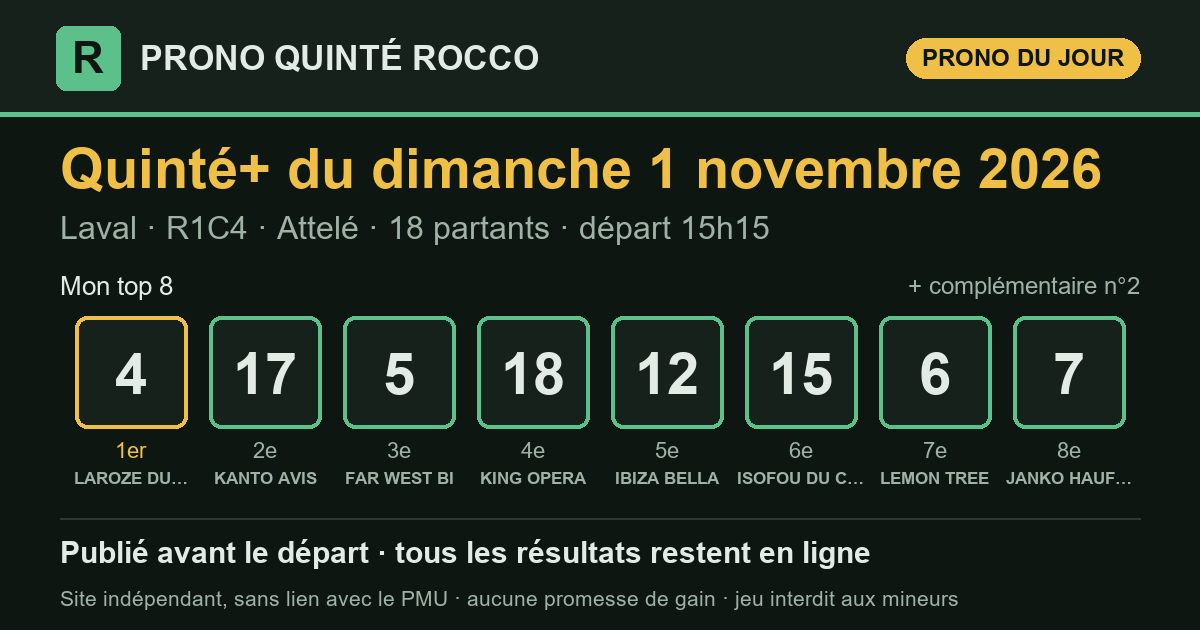
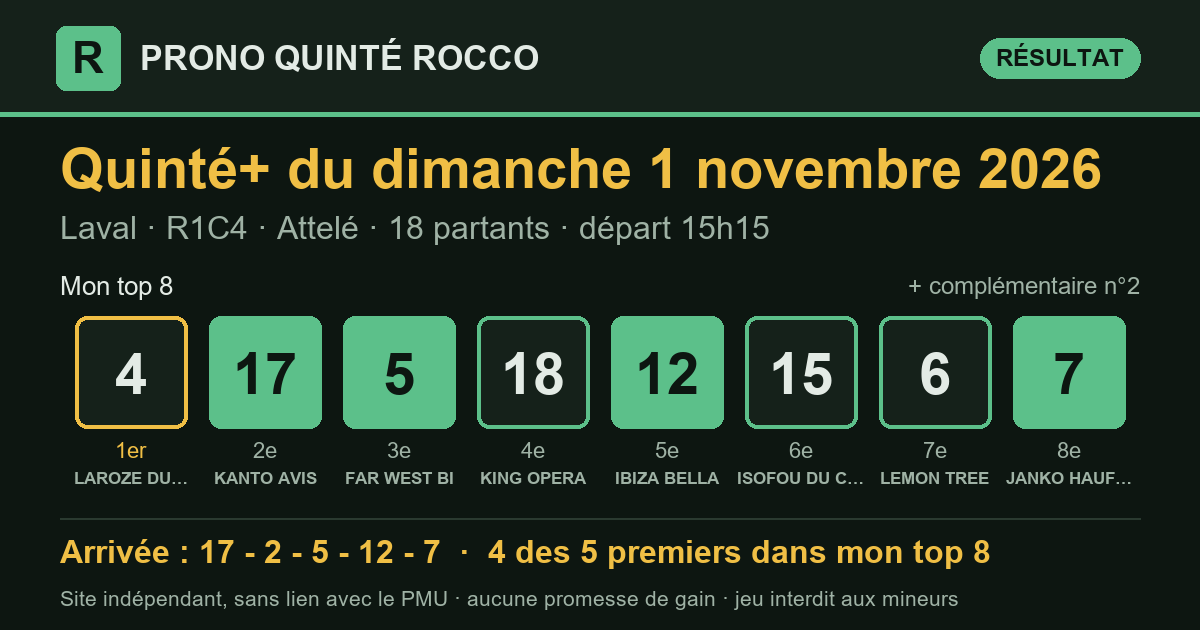
Prono Quinté+ 2026-11-01 Laval R1C4 — publié le 02/11/2026 08:54 (heure de Paris)

diff --git a/partants.html b/partants.html
@@ -3,7 +3,7 @@
 <head>
 <meta charset="utf-8">
 <meta name="viewport" content="width=device-width, initial-scale=1, viewport-fit=cover">
-<title>Partants du Quinté+ du dimanche 1 novembre 2026 — Prono Quinté Rocco</title>
+<title>Partants du Quinté+ du lundi 2 novembre 2026 — Prono Quinté Rocco</title>
 <meta name="description" content="Les partants du prochain Quinté+ (programme officiel du PMU), avec le rang de chaque cheval dans mon prono et les liens vers les pronostics de la presse.">
 <link rel="canonical" href="https://prono-quinte-rocco.fr/partants.html">
 <link rel="stylesheet" href="style.css?v=88a1c822">
@@ -13,7 +13,7 @@
 <meta property="og:site_name" content="Prono Quinté Rocco">
 <meta property="og:locale" content="fr_FR">
 <meta property="og:type" content="website">
-<meta property="og:title" content="Partants du Quinté+ du dimanche 1 novembre 2026 — Prono Quinté Rocco">
+<meta property="og:title" content="Partants du Quinté+ du lundi 2 novembre 2026 — Prono Quinté Rocco">
 <meta property="og:description" content="Les partants du prochain Quinté+ (programme officiel du PMU), avec le rang de chaque cheval dans mon prono et les liens vers les pronostics de la presse.">
 <meta property="og:url" content="https://prono-quinte-rocco.fr/partants.html">
 <meta name="twitter:card" content="summary">
@@ -29,110 +29,100 @@
   <p class="surtitre">Programme officiel du PMU</p>
   <h1>Les partants du prochain Quinté+</h1>
   <div class="fiche-course">
-    <p class="fiche-date">Dimanche 1 novembre 2026</p>
-    <div class="fiche-rc"><span class="pastille" title="Réunion 1">R1</span><span class="pastille" title="Course 4">C4</span><span class="fiche-nom">Grand Prix de la Ville de Laval</span></div>
-    <p class="meta">Laval · Trot_attele · 2 850 m · 18 partants</p>
-    <p class="fiche-depart">Départ <b>15:15</b> <span>heure de Paris</span></p>
+    <p class="fiche-date">Lundi 2 novembre 2026</p>
+    <div class="fiche-rc"><span class="pastille" title="Réunion 1">R1</span><span class="pastille" title="Course 3">C3</span><span class="fiche-nom">Prix de la Seine et Marne</span></div>
+    <p class="meta">Fontainebleau · Plat · 1 600 m · 16 partants</p>
+    <p class="fiche-depart">Départ <b>13:55</b> <span>heure de Paris</span></p>
   </div>
   <p class="surtitre">Les pronostics ailleurs sur le web</p>
-  <div class="liens"><a class="lien-ext" href="https://www.turfoo.fr/programmes-courses/261101/reunion1-laval/course4-grand-prix-de-la-ville-de-laval/pronostics-presse/" rel="noopener" target="_blank"><b>Les pronostics de la presse →</b><span>sur Turfoo (site extérieur)</span></a><a class="lien-ext" href="https://www.geny.com/programme/2026-11-01" rel="noopener" target="_blank"><b>Partants et pronostics →</b><span>programme du jour sur Geny (site extérieur)</span></a></div>
+  <div class="liens"><a class="lien-ext" href="https://www.turfoo.fr/programmes-courses/261102/reunion1-fontainebleau/course3-prix-de-la-seine-et-marne/pronostics-presse/" rel="noopener" target="_blank"><b>Les pronostics de la presse →</b><span>sur Turfoo (site extérieur)</span></a><a class="lien-ext" href="https://www.geny.com/programme/2026-11-02" rel="noopener" target="_blank"><b>Partants et pronostics →</b><span>programme du jour sur Geny (site extérieur)</span></a></div>
   <div class="liste-boite"><table class="liste-partants">
     <thead><tr><th>N°</th><th>Cheval</th><th class="cote"><span class="long">Cote du matin</span><span class="court">Cote</span></th>
     <th class="ia"><span class="long">Mon prono</span><span class="court">Prono</span></th></tr></thead>
     <tbody><tr>
   <td><span class="tapis petit">1</span></td>
-  <td><span class="cheval">JERICHO DU RIB</span><span class="sous">Mme C. HALLAIS-DERSOIR · JOEL HALLAIS</span></td>
-  <td class="cote num">44,0</td>
+  <td><span class="cheval">PURPLE LION</span><span class="sous">H.BOUTIN · FH.GRAFFARD (S)</span></td>
+  <td class="cote num">—</td>
   <td class="ia">—</td>
 </tr><tr>
   <td><span class="tapis petit">2</span></td>
-  <td><span class="cheval">JIBI DU FRUITIER</span><span class="sous">M. MOTTIER · CH.M. BRUNEAU</span></td>
-  <td class="cote num">14,0</td>
-  <td class="ia"><span class="etat place">compl.</span></td>
+  <td><span class="cheval">DOUBLE UP</span><span class="sous">A.MADAMET · S.WATTEL (S)</span></td>
+  <td class="cote num">—</td>
+  <td class="ia">—</td>
 </tr><tr>
   <td><span class="tapis petit">3</span></td>
-  <td><span class="cheval">JERZINHO SPORT</span><span class="sous">F. BOUDET · Mme CL. DESMONTILS</span></td>
-  <td class="cote num">61,0</td>
+  <td><span class="cheval">BAYAMOON</span><span class="sous">F.VERON · J.REYNIER (S)</span></td>
+  <td class="cote num">—</td>
   <td class="ia">—</td>
 </tr><tr>
   <td><span class="tapis petit">4</span></td>
-  <td><span class="cheval">LAROZE DU GERS</span><span class="sous">M. ABRIVARD · M. ABRIVARD</span></td>
-  <td class="cote num">3,2</td>
-  <td class="ia"><span class="etat place">1<sup>er</sup></span></td>
+  <td><span class="cheval">FELIX AUX ORMES</span><span class="sous">H.JOURNIAC · Y.BARBEROT (S)</span></td>
+  <td class="cote num">—</td>
+  <td class="ia">—</td>
 </tr><tr>
   <td><span class="tapis petit">5</span></td>
-  <td><span class="cheval">FAR WEST BI</span><span class="sous">E. RAFFIN · H.E. BONDO</span></td>
-  <td class="cote num">6,3</td>
-  <td class="ia"><span class="etat place">3<sup>e</sup></span></td>
+  <td><span class="cheval">JUSEARTH FAL</span><span class="sous">C.LECOEUVRE · M.PITART</span></td>
+  <td class="cote num">—</td>
+  <td class="ia">—</td>
 </tr><tr>
   <td><span class="tapis petit">6</span></td>
-  <td><span class="cheval">LEMON TREE</span><span class="sous">A. ABRIVARD · W. BIGEON</span></td>
-  <td class="cote num">14,0</td>
-  <td class="ia"><span class="etat place">7<sup>e</sup></span></td>
+  <td><span class="cheval">MR FLEURANT</span><span class="sous">A.HAMELIN · A.WATRIGANT (S)</span></td>
+  <td class="cote num">—</td>
+  <td class="ia">—</td>
 </tr><tr>
   <td><span class="tapis petit">7</span></td>
-  <td><span class="cheval">JANKO HAUFOR</span><span class="sous">D. BONNE · CH. BIGEON</span></td>
-  <td class="cote num">12,0</td>
-  <td class="ia"><span class="etat place">8<sup>e</sup></span></td>
+  <td><span class="cheval">NOVA HOPE</span><span class="sous">A.LEMAITRE · F.FORESI</span></td>
+  <td class="cote num">—</td>
+  <td class="ia">—</td>
 </tr><tr>
   <td><span class="tapis petit">8</span></td>
-  <td><span class="cheval">JASMINE DE VAU</span><span class="sous">CH. DREUX · Ch. DREUX</span></td>
-  <td class="cote num">72,0</td>
+  <td><span class="cheval">ZELMAN</span><span class="sous">M.GRANDIN · AS&amp;D.ALLARD (S)</span></td>
+  <td class="cote num">—</td>
   <td class="ia">—</td>
 </tr><tr>
   <td><span class="tapis petit">9</span></td>
-  <td><span class="cheval">INDY DARK</span><span class="sous">P.EDOUARD MARY · J.F. MARY</span></td>
-  <td class="cote num">81,0</td>
+  <td><span class="cheval">GOOD BYE MANU</span><span class="sous">A.CRASTUS · BUTEL &amp; BEAUNEZ (S)</span></td>
+  <td class="cote num">—</td>
   <td class="ia">—</td>
 </tr><tr>
   <td><span class="tapis petit">10</span></td>
-  <td><span class="cheval">ILLUSION JIPAD</span><span class="sous">P. LELIEVRE · P. LELIEVRE</span></td>
-  <td class="cote num">122,0</td>
+  <td><span class="cheval">VICTORY FOLIE</span><span class="sous">M.GUYON · N.CAULLERY</span></td>
+  <td class="cote num">—</td>
   <td class="ia">—</td>
 </tr><tr>
   <td><span class="tapis petit">11</span></td>
-  <td><span class="cheval">L&#x27;ECRIN D&#x27;OR</span><span class="sous">J.PH. RAFFEGEAU · L.CL. ABRIVARD</span></td>
-  <td class="cote num">95,0</td>
+  <td><span class="cheval">GALORD</span><span class="sous">E.HARDOUIN · C.FEY (S)</span></td>
+  <td class="cote num">—</td>
   <td class="ia">—</td>
 </tr><tr>
   <td><span class="tapis petit">12</span></td>
-  <td><span class="cheval">IBIZA BELLA</span><span class="sous">A. WIELS · J.P. MARMION</span></td>
-  <td class="cote num">28,0</td>
-  <td class="ia"><span class="etat place">5<sup>e</sup></span></td>
+  <td><span class="cheval">HENDRIXX</span><span class="sous">F.VALLE SKAR · C&amp;Y.LERNER (S)</span></td>
+  <td class="cote num">—</td>
+  <td class="ia">—</td>
 </tr><tr>
   <td><span class="tapis petit">13</span></td>
-  <td><span class="cheval">IDYLLE EXPRESS</span><span class="sous">Mlle CL. LELIEVRE · EMILIEN RAULLINE</span></td>
-  <td class="cote num">64,0</td>
+  <td><span class="cheval">ARTISTIC MAN</span><span class="sous">T.TRULLIER · F.JOLIVET (S)</span></td>
+  <td class="cote num">—</td>
   <td class="ia">—</td>
 </tr><tr>
   <td><span class="tapis petit">14</span></td>
-  <td><span class="cheval">INSHORE</span><span class="sous">LEO ABRIVARD · LEO ABRIVARD</span></td>
-  <td class="cote num">124,0</td>
+  <td><span class="cheval">TERREDEGUERRE</span><span class="sous">J.CLAUDIC · F.FORESI</span></td>
+  <td class="cote num">—</td>
   <td class="ia">—</td>
 </tr><tr>
   <td><span class="tapis petit">15</span></td>
-  <td><span class="cheval">ISOFOU DU CHENE</span><span class="sous">P.PH. PLOQUIN · J. LE MER</span></td>
-  <td class="cote num">23,0</td>
-  <td class="ia"><span class="etat place">6<sup>e</sup></span></td>
-</tr><tr>
-  <td><span class="tapis petit">16</span></td>
-  <td><span class="cheval">J&#x27;AIME LE FOOT</span><span class="sous">A. LHERETE · Antoine LHERETE</span></td>
-  <td class="cote num">106,0</td>
+  <td><span class="cheval">KIANDA</span><span class="sous">M.VELON · M.DELZANGLES</span></td>
+  <td class="cote num">—</td>
   <td class="ia">—</td>
 </tr><tr>
-  <td><span class="tapis petit">17</span></td>
-  <td><span class="cheval">KANTO AVIS</span><span class="sous">B. ROCHARD · M. SASSIER</span></td>
-  <td class="cote num">5,2</td>
-  <td class="ia"><span class="etat place">2<sup>e</sup></span></td>
-</tr><tr>
-  <td><span class="tapis petit">18</span></td>
-  <td><span class="cheval">KING OPERA</span><span class="sous">W. BIGEON · W. BIGEON</span></td>
-  <td class="cote num">10,0</td>
-  <td class="ia"><span class="etat place">4<sup>e</sup></span></td>
+  <td><span class="tapis petit">16</span></td>
+  <td><span class="cheval">BABY HARTWOOD</span><span class="sous">D.SANTIAGO · MME V.DISSAUX</span></td>
+  <td class="cote num">—</td>
+  <td class="ia">—</td>
 </tr></tbody>
   </table></div>
-  <p class="meta">La colonne « Mon prono » donne le rang de chaque cheval dans mon top 8, tel qu&#x27;il est publié sur ce site. Sous chaque cheval : driver · entraîneur. Partants et cotes : programme
-  officiel du PMU, lu le 01/11 à 13:21 (heure de Paris). NP = non-partant.</p>
+  <p class="meta">Mon prono de cette course sera publié le matin de la course, avant le départ. Sous chaque cheval : jockey · entraîneur. Partants et cotes : programme
+  officiel du PMU, lu le 02/11 à 08:54 (heure de Paris). NP = non-partant.</p>
 </section>
 </main>
 <footer class="pied">

diff --git a/index.html b/index.html
@@ -16,7 +16,7 @@
 <meta property="og:title" content="Pronostic Quinté+ du dimanche 1 novembre 2026 — Prono Quinté Rocco">
 <meta property="og:description" content="Pronostic Quinté+ du jour : mon top 8, publié avant le départ, puis tous les résultats et le rendement réel.">
 <meta property="og:url" content="https://prono-quinte-rocco.fr/">
-<meta property="og:image" content="https://prono-quinte-rocco.fr/partage/2026-11-01.png?v=83950535">
+<meta property="og:image" content="https://prono-quinte-rocco.fr/partage/2026-11-01.png?v=42003997">
 <meta property="og:image:type" content="image/png">
 <meta property="og:image:width" content="1200">
 <meta property="og:image:height" content="630">
@@ -31,7 +31,7 @@
 </header>
 <main>
 <section class="une" aria-labelledby="t-jour">
-  <p class="surtitre">Quinté+ du jour</p>
+  <p class="surtitre">Dernier Quinté+</p>
   <h1 id="t-jour">Le prono du Quinté+, résultats compris</h1>
   <p class="chapo">Chaque matin, j'étudie les partants du Quinté+ avec le logiciel que
   j'ai conçu, selon ma propre méthode, qu'une intelligence artificielle m'aide à
@@ -42,10 +42,13 @@
   <p class="meta">Laval · <strong>R1C4</strong> · Attelé · 18 partants · lisibilité <span class="note" aria-label="note 2 sur 5"><i class="on"></i><i class="on"></i><i class=""></i><i class=""></i><i class=""></i></span> 2/5</p>
   <div class="zone-prono">
     <h3 class="zone-titre">Mon top 8</h3>
-    <ol class="partants" aria-label="Mon top 8"><li><span class="rang">1<sup>er</sup></span><span class="tapis ">4</span><span class="nom">LAROZE DU GERS</span></li><li><span class="rang">2<sup>e</sup></span><span class="tapis ">17</span><span class="nom">KANTO AVIS</span></li><li><span class="rang">3<sup>e</sup></span><span class="tapis ">5</span><span class="nom">FAR WEST BI</span></li><li><span class="rang">4<sup>e</sup></span><span class="tapis ">18</span><span class="nom">KING OPERA</span></li><li><span class="rang">5<sup>e</sup></span><span class="tapis ">12</span><span class="nom">IBIZA BELLA</span></li><li><span class="rang">6<sup>e</sup></span><span class="tapis ">15</span><span class="nom">ISOFOU DU CHENE</span></li><li><span class="rang">7<sup>e</sup></span><span class="tapis ">6</span><span class="nom">LEMON TREE</span></li><li><span class="rang">8<sup>e</sup></span><span class="tapis ">7</span><span class="nom">JANKO HAUFOR</span></li><li><span class="rang">compl.</span><span class="tapis creux">2</span><span class="nom">JIBI DU FRUITIER</span></li></ol>
+    <ol class="partants" aria-label="Mon top 8"><li><span class="rang">1<sup>er</sup></span><span class="tapis ">4</span><span class="nom">LAROZE DU GERS</span></li><li><span class="rang">2<sup>e</sup></span><span class="tapis plein">17</span><span class="nom">KANTO AVIS</span></li><li><span class="rang">3<sup>e</sup></span><span class="tapis plein">5</span><span class="nom">FAR WEST BI</span></li><li><span class="rang">4<sup>e</sup></span><span class="tapis ">18</span><span class="nom">KING OPERA</span></li><li><span class="rang">5<sup>e</sup></span><span class="tapis plein">12</span><span class="nom">IBIZA BELLA</span></li><li><span class="rang">6<sup>e</sup></span><span class="tapis ">15</span><span class="nom">ISOFOU DU CHENE</span></li><li><span class="rang">7<sup>e</sup></span><span class="tapis ">6</span><span class="nom">LEMON TREE</span></li><li><span class="rang">8<sup>e</sup></span><span class="tapis plein">7</span><span class="nom">JANKO HAUFOR</span></li><li><span class="rang">compl.</span><span class="tapis creux plein">2</span><span class="nom">JIBI DU FRUITIER</span></li></ol>
     <div class="pied-carte"><span>Analysé le 01/11 à 13:17 · en ligne le 01/11 à 13:21 · départ à 15:15 (heure de Paris)</span><span><a href="quinte/2026-11-01.html">Détail de la course</a></span></div>
   </div>
-  <div class="zone-arrivee attente"><p>L'arrivée officielle s'affichera ici après la course.</p></div>
+  <div class="zone-arrivee">
+    <div class="zone-tete"><h3 class="zone-titre">Arrivée officielle</h3><span class="etat place">4 des 5 premiers dans mon top 8</span><span class="etat non">mon 1er (n°4) : non placé</span></div>
+    <ol class="partants" aria-label="Arrivée officielle"><li><span class="rang">1<sup>er</sup></span><span class="tapis plein">17</span><span class="nom">KANTO AVIS</span></li><li><span class="rang">2<sup>e</sup></span><span class="tapis creux plein">2</span><span class="nom">JIBI DU FRUITIER</span></li><li><span class="rang">3<sup>e</sup></span><span class="tapis plein">5</span><span class="nom">FAR WEST BI</span></li><li><span class="rang">4<sup>e</sup></span><span class="tapis plein">12</span><span class="nom">IBIZA BELLA</span></li><li><span class="rang">5<sup>e</sup></span><span class="tapis plein">7</span><span class="nom">JANKO HAUFOR</span></li></ol>
+  </div>
 </article>
 </section>
 <section class="suivre" aria-label="Suivre et soutenir">
@@ -75,7 +78,7 @@
 </section>
 <section class="bilan" aria-labelledby="t-bilan">
   <h2 id="t-bilan">Mon bilan depuis le 8 septembre 2026</h2>
-  <div class="tableau chiffres"><div class="case"><span class="gros ">72 %</span><span class="lib">des arrivants trouvés dans mon top 8</span><span class="ref">un top 8 tiré au hasard : 51 %</span></div><div class="case"><span class="gros ">87 %</span><span class="lib">des gagnants présents dans mon top 8</span><span class="ref"></span></div><div class="case"><span class="gros ">47 %</span><span class="lib">mon 1er placé</span><span class="ref">sur 53 Quintés</span></div><div class="case"><span class="gros perte">0,88 €</span><span class="lib">rendus pour 1 € joué placé sur mon 1er</span><span class="ref">rapports officiels PMU</span></div><div class="case"><span class="gros perte">0,44 €</span><span class="lib">rendus pour 1 € joué en Quinté+ combiné sur mon top 8</span><span class="ref">56 combinaisons, rapports PMU.fr, sur 53 Quintés</span></div></div>
+  <div class="tableau chiffres"><div class="case"><span class="gros ">72 %</span><span class="lib">des arrivants trouvés dans mon top 8</span><span class="ref">un top 8 tiré au hasard : 51 %</span></div><div class="case"><span class="gros ">87 %</span><span class="lib">des gagnants présents dans mon top 8</span><span class="ref"></span></div><div class="case"><span class="gros ">47 %</span><span class="lib">mon 1er placé</span><span class="ref">sur 53 Quintés</span></div><div class="case"><span class="gros perte">0,88 €</span><span class="lib">rendus pour 1 € joué placé sur mon 1er</span><span class="ref">rapports officiels PMU</span></div><div class="case"><span class="gros perte">0,44 €</span><span class="lib">rendus pour 1 € joué en Quinté+ combiné sur mon top 8</span><span class="ref">56 combinaisons, rapports PMU.fr, sur 54 Quintés</span></div></div>
   <p class="avertissement">Moins de 1 € rendu pour 1 € joué : suivre mon prono à la lettre fait <strong>perdre de l'argent</strong> sur cette période. Il sert à analyser une course, pas à promettre un gain.</p>
 </section>
 </main>

diff --git a/quinte/2026-11-01.html b/quinte/2026-11-01.html
@@ -16,7 +16,7 @@
 <meta property="og:title" content="Pronostic Quinté+ du dimanche 1 novembre 2026 à Laval — Prono Quinté Rocco">
 <meta property="og:description" content="Prono Quinté+ du dimanche 1 novembre 2026 (Laval) : mon top 8, l&#x27;arrivée officielle et les rapports PMU.fr.">
 <meta property="og:url" content="https://prono-quinte-rocco.fr/quinte/2026-11-01.html">
-<meta property="og:image" content="https://prono-quinte-rocco.fr/partage/2026-11-01.png?v=83950535">
+<meta property="og:image" content="https://prono-quinte-rocco.fr/partage/2026-11-01.png?v=42003997">
 <meta property="og:image:type" content="image/png">
 <meta property="og:image:width" content="1200">
 <meta property="og:image:height" content="630">
@@ -35,15 +35,25 @@
   <h1>Pronostic Quinté+ du dimanche 1 novembre 2026</h1>
   <p class="chapo">Laval · R1C4 · Attelé · 18 partants</p>
   <article class="carte-course">
-  <div class="tete"><h2>Mon prono</h2></div>
+  <div class="tete"><h2>Mon prono et l&#x27;arrivée officielle</h2></div>
   <p class="meta">Laval · <strong>R1C4</strong> · Attelé · 18 partants · lisibilité <span class="note" aria-label="note 2 sur 5"><i class="on"></i><i class="on"></i><i class=""></i><i class=""></i><i class=""></i></span> 2/5</p>
   <div class="zone-prono">
     <h3 class="zone-titre">Mon top 8</h3>
-    <ol class="partants" aria-label="Mon top 8"><li><span class="rang">1<sup>er</sup></span><span class="tapis ">4</span><span class="nom">LAROZE DU GERS</span></li><li><span class="rang">2<sup>e</sup></span><span class="tapis ">17</span><span class="nom">KANTO AVIS</span></li><li><span class="rang">3<sup>e</sup></span><span class="tapis ">5</span><span class="nom">FAR WEST BI</span></li><li><span class="rang">4<sup>e</sup></span><span class="tapis ">18</span><span class="nom">KING OPERA</span></li><li><span class="rang">5<sup>e</sup></span><span class="tapis ">12</span><span class="nom">IBIZA BELLA</span></li><li><span class="rang">6<sup>e</sup></span><span class="tapis ">15</span><span class="nom">ISOFOU DU CHENE</span></li><li><span class="rang">7<sup>e</sup></span><span class="tapis ">6</span><span class="nom">LEMON TREE</span></li><li><span class="rang">8<sup>e</sup></span><span class="tapis ">7</span><span class="nom">JANKO HAUFOR</span></li><li><span class="rang">compl.</span><span class="tapis creux">2</span><span class="nom">JIBI DU FRUITIER</span></li></ol>
+    <ol class="partants" aria-label="Mon top 8"><li><span class="rang">1<sup>er</sup></span><span class="tapis ">4</span><span class="nom">LAROZE DU GERS</span></li><li><span class="rang">2<sup>e</sup></span><span class="tapis plein">17</span><span class="nom">KANTO AVIS</span></li><li><span class="rang">3<sup>e</sup></span><span class="tapis plein">5</span><span class="nom">FAR WEST BI</span></li><li><span class="rang">4<sup>e</sup></span><span class="tapis ">18</span><span class="nom">KING OPERA</span></li><li><span class="rang">5<sup>e</sup></span><span class="tapis plein">12</span><span class="nom">IBIZA BELLA</span></li><li><span class="rang">6<sup>e</sup></span><span class="tapis ">15</span><span class="nom">ISOFOU DU CHENE</span></li><li><span class="rang">7<sup>e</sup></span><span class="tapis ">6</span><span class="nom">LEMON TREE</span></li><li><span class="rang">8<sup>e</sup></span><span class="tapis plein">7</span><span class="nom">JANKO HAUFOR</span></li><li><span class="rang">compl.</span><span class="tapis creux plein">2</span><span class="nom">JIBI DU FRUITIER</span></li></ol>
     <div class="pied-carte"><span>Analysé le 01/11 à 13:17 · en ligne le 01/11 à 13:21 · départ à 15:15 (heure de Paris)</span><span></span></div>
   </div>
-  <div class="zone-arrivee attente"><p>L'arrivée officielle s'affichera ici après la course.</p></div>
+  <div class="zone-arrivee">
+    <div class="zone-tete"><h3 class="zone-titre">Arrivée officielle</h3><span class="etat place">4 des 5 premiers dans mon top 8</span><span class="etat non">mon 1er (n°4) : non placé</span></div>
+    <ol class="partants" aria-label="Arrivée officielle"><li><span class="rang">1<sup>er</sup></span><span class="tapis plein">17</span><span class="nom">KANTO AVIS</span></li><li><span class="rang">2<sup>e</sup></span><span class="tapis creux plein">2</span><span class="nom">JIBI DU FRUITIER</span></li><li><span class="rang">3<sup>e</sup></span><span class="tapis plein">5</span><span class="nom">FAR WEST BI</span></li><li><span class="rang">4<sup>e</sup></span><span class="tapis plein">12</span><span class="nom">IBIZA BELLA</span></li><li><span class="rang">5<sup>e</sup></span><span class="tapis plein">7</span><span class="nom">JANKO HAUFOR</span></li></ol>
+  </div>
 </article>
+<section class="carte-course rapports" aria-labelledby="t-rap">
+  <div class="tete"><h2 id="t-rap">Les rapports</h2></div>
+  <div class="deux">
+    <div><h3>Ce qu'aurait rendu mon prono</h3><dl class="kv"><dt>1 € placé sur mon 1er (n°4)</dt><dd>rapport manquant</dd><dt>1 € gagnant sur mon 1er</dt><dd>rapport manquant</dd><dt>Quinté+ combiné sur mon top 8 (mise 112 €)</dt><dd>21,60 €</dd><dt>dont</dt><dd>Bonus 4sur5 × 4</dd></dl></div>
+    <div><h3>Rapports officiels</h3><dl class="kv"><dt>e-Quinté+ Ordre (2 €)</dt><dd>21 300,40 €</dd><dt>e-Quinté+ Désordre (2 €)</dt><dd>224,00 €</dd><dt>e-Bonus 4sur5 (2 €)</dt><dd>5,40 €</dd><dt>e-Bonus 3 (2 €)</dt><dd>4,20 €</dd></dl></div>
+  </div>
+</section>
 </section>
 </main>
 <footer class="pied">

diff --git a/resultats.html b/resultats.html
@@ -40,11 +40,11 @@
     <th colspan="4" class="res g-res">Le résultat officiel</th></tr>
     <tr><th>Date</th><th>Course</th><th>Top 8</th><th class="res c-arr">Arrivée</th>
     <th class="res">Trouvés</th><th class="res">Mon 1er</th><th class="res mont">Quinté+ top 8<br>(mise 112 €)</th></tr></thead>
-    <tbody><tr class="attente">
+    <tbody><tr>
   <td class="c-date"><a href="quinte/2026-11-01.html">01/11</a></td>
   <td class="c-course">Laval<br><span class="meta">R1C4 · Attelé</span></td>
-  <td class="c-top8" data-label="Mon top 8"><div class="rangee"><span class="tapis petit">4</span><span class="tapis petit">17</span><span class="tapis petit">5</span><span class="tapis petit">18</span><span class="tapis petit">12</span><span class="tapis petit">15</span><span class="tapis petit">6</span><span class="tapis petit">7</span></div></td>
-  <td class="res c-arr" data-label="Arrivée"><span class="etat attente">en attente</span></td><td class="res num c-trouves" data-label="Trouvés">—</td><td class="res c-premier" data-label="Mon 1er"><span class="etat attente">—</span></td><td class="res mont c-mont" data-label="Quinté+ top 8 (mise 112 €)">—</td>
+  <td class="c-top8" data-label="Mon top 8"><div class="rangee"><span class="tapis petit">4</span><span class="tapis plein petit">17</span><span class="tapis plein petit">5</span><span class="tapis petit">18</span><span class="tapis plein petit">12</span><span class="tapis petit">15</span><span class="tapis petit">6</span><span class="tapis plein petit">7</span></div></td>
+  <td class="res c-arr" data-label="Arrivée"><div class="rangee"><span class="tapis plein petit" title="1er">17</span><span class="tapis hors petit" title="2e">2</span><span class="tapis plein petit" title="3e">5</span><span class="tapis plein petit" title="4e">12</span><span class="tapis plein petit" title="5e">7</span></div></td><td class="res num c-trouves" data-label="Trouvés">4/5</td><td class="res c-premier" data-label="Mon 1er"><span class="etat non">non placé</span></td><td class="res mont c-mont perte" data-label="Quinté+ top 8 (mise 112 €)">21,60 €</td>
 </tr><tr>
   <td class="c-date"><a href="quinte/2026-10-31.html">31/10</a></td>
   <td class="c-course">Deauville<br><span class="meta">R1C3 · Plat</span></td>
@@ -315,7 +315,7 @@
 </section>
 <section class="bilan" aria-labelledby="t-bilan">
   <h2 id="t-bilan">Mon bilan depuis le 8 septembre 2026</h2>
-  <div class="tableau chiffres"><div class="case"><span class="gros ">72 %</span><span class="lib">des arrivants trouvés dans mon top 8</span><span class="ref">un top 8 tiré au hasard : 51 %</span></div><div class="case"><span class="gros ">87 %</span><span class="lib">des gagnants présents dans mon top 8</span><span class="ref"></span></div><div class="case"><span class="gros ">47 %</span><span class="lib">mon 1er placé</span><span class="ref">sur 53 Quintés</span></div><div class="case"><span class="gros perte">0,88 €</span><span class="lib">rendus pour 1 € joué placé sur mon 1er</span><span class="ref">rapports officiels PMU</span></div><div class="case"><span class="gros perte">0,44 €</span><span class="lib">rendus pour 1 € joué en Quinté+ combiné sur mon top 8</span><span class="ref">56 combinaisons, rapports PMU.fr, sur 53 Quintés</span></div></div>
+  <div class="tableau chiffres"><div class="case"><span class="gros ">72 %</span><span class="lib">des arrivants trouvés dans mon top 8</span><span class="ref">un top 8 tiré au hasard : 51 %</span></div><div class="case"><span class="gros ">87 %</span><span class="lib">des gagnants présents dans mon top 8</span><span class="ref"></span></div><div class="case"><span class="gros ">47 %</span><span class="lib">mon 1er placé</span><span class="ref">sur 53 Quintés</span></div><div class="case"><span class="gros perte">0,88 €</span><span class="lib">rendus pour 1 € joué placé sur mon 1er</span><span class="ref">rapports officiels PMU</span></div><div class="case"><span class="gros perte">0,44 €</span><span class="lib">rendus pour 1 € joué en Quinté+ combiné sur mon top 8</span><span class="ref">56 combinaisons, rapports PMU.fr, sur 54 Quintés</span></div></div>
   <p class="avertissement">Moins de 1 € rendu pour 1 € joué : suivre mon prono à la lettre fait <strong>perdre de l'argent</strong> sur cette période. Il sert à analyser une course, pas à promettre un gain.</p>
 </section>
 </main>
